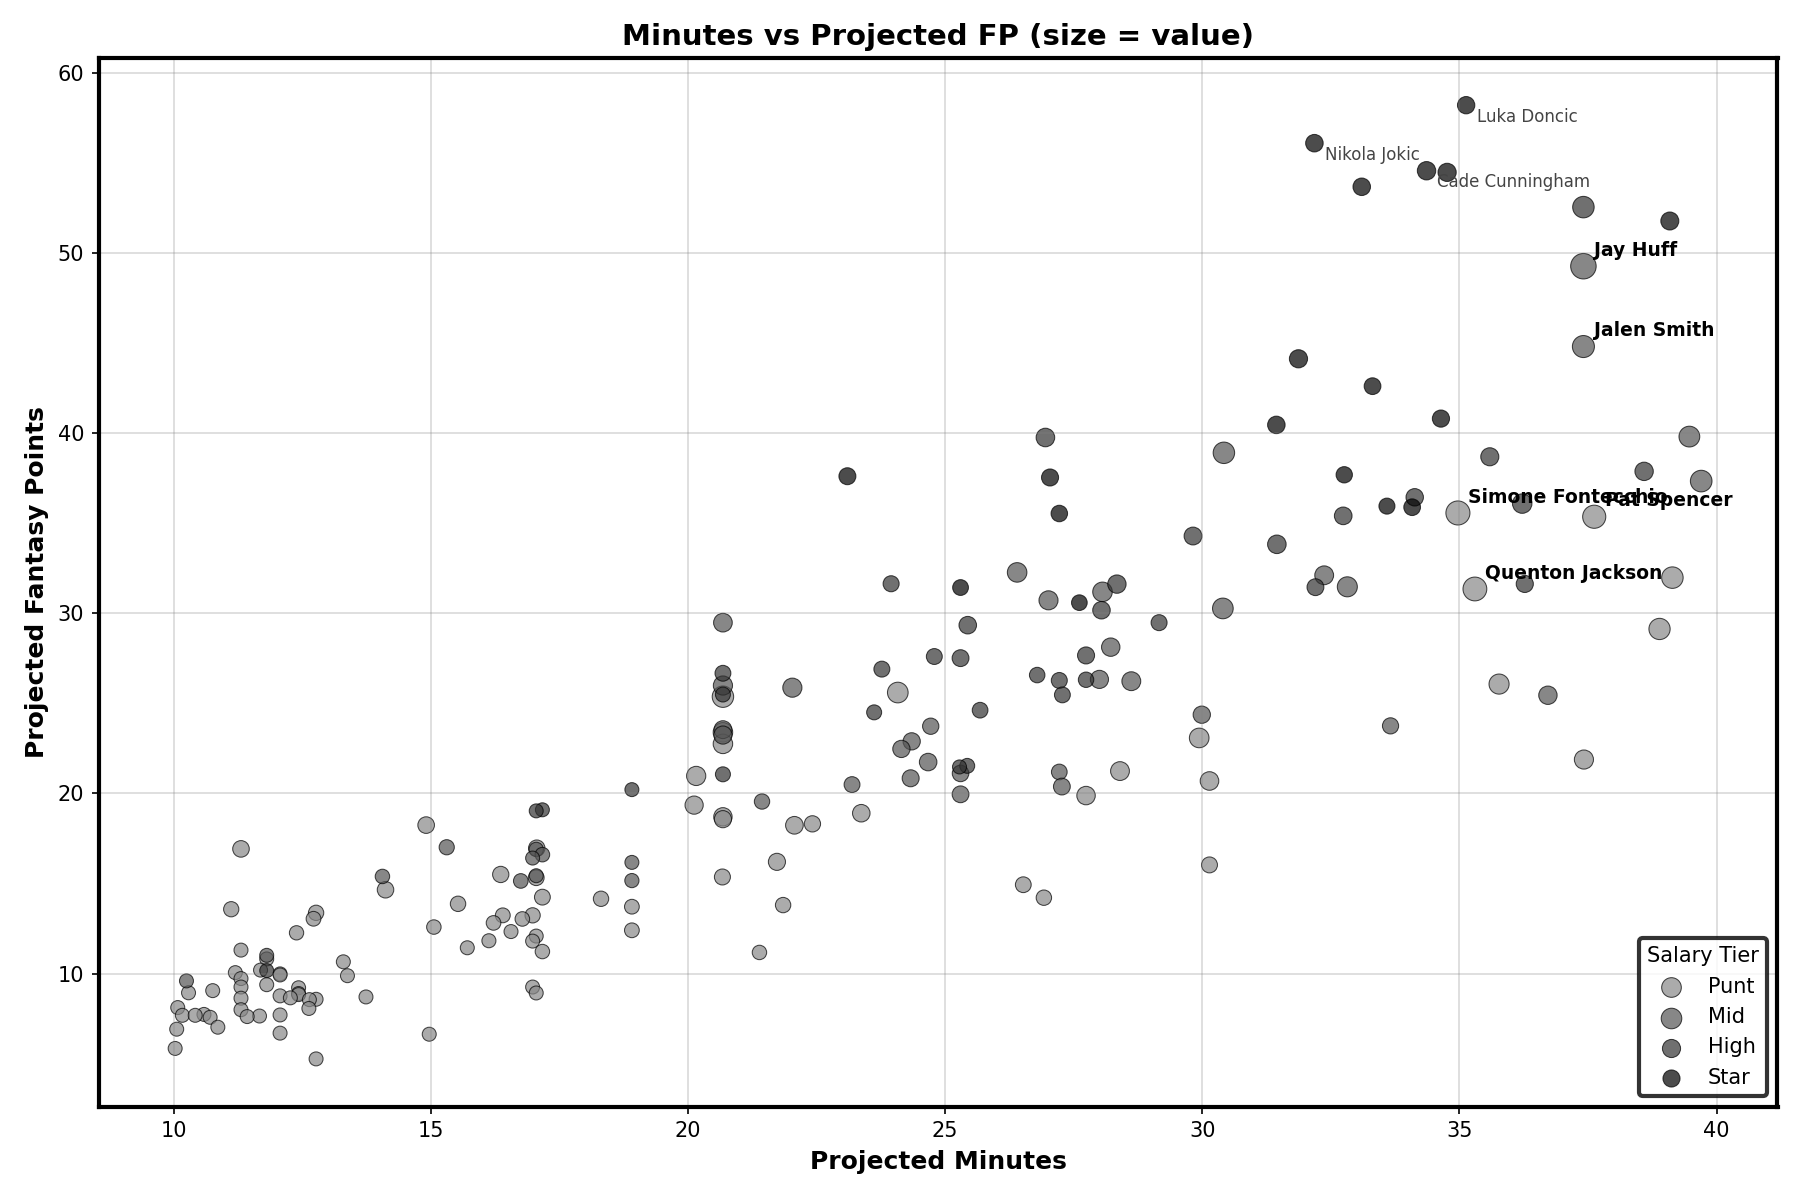
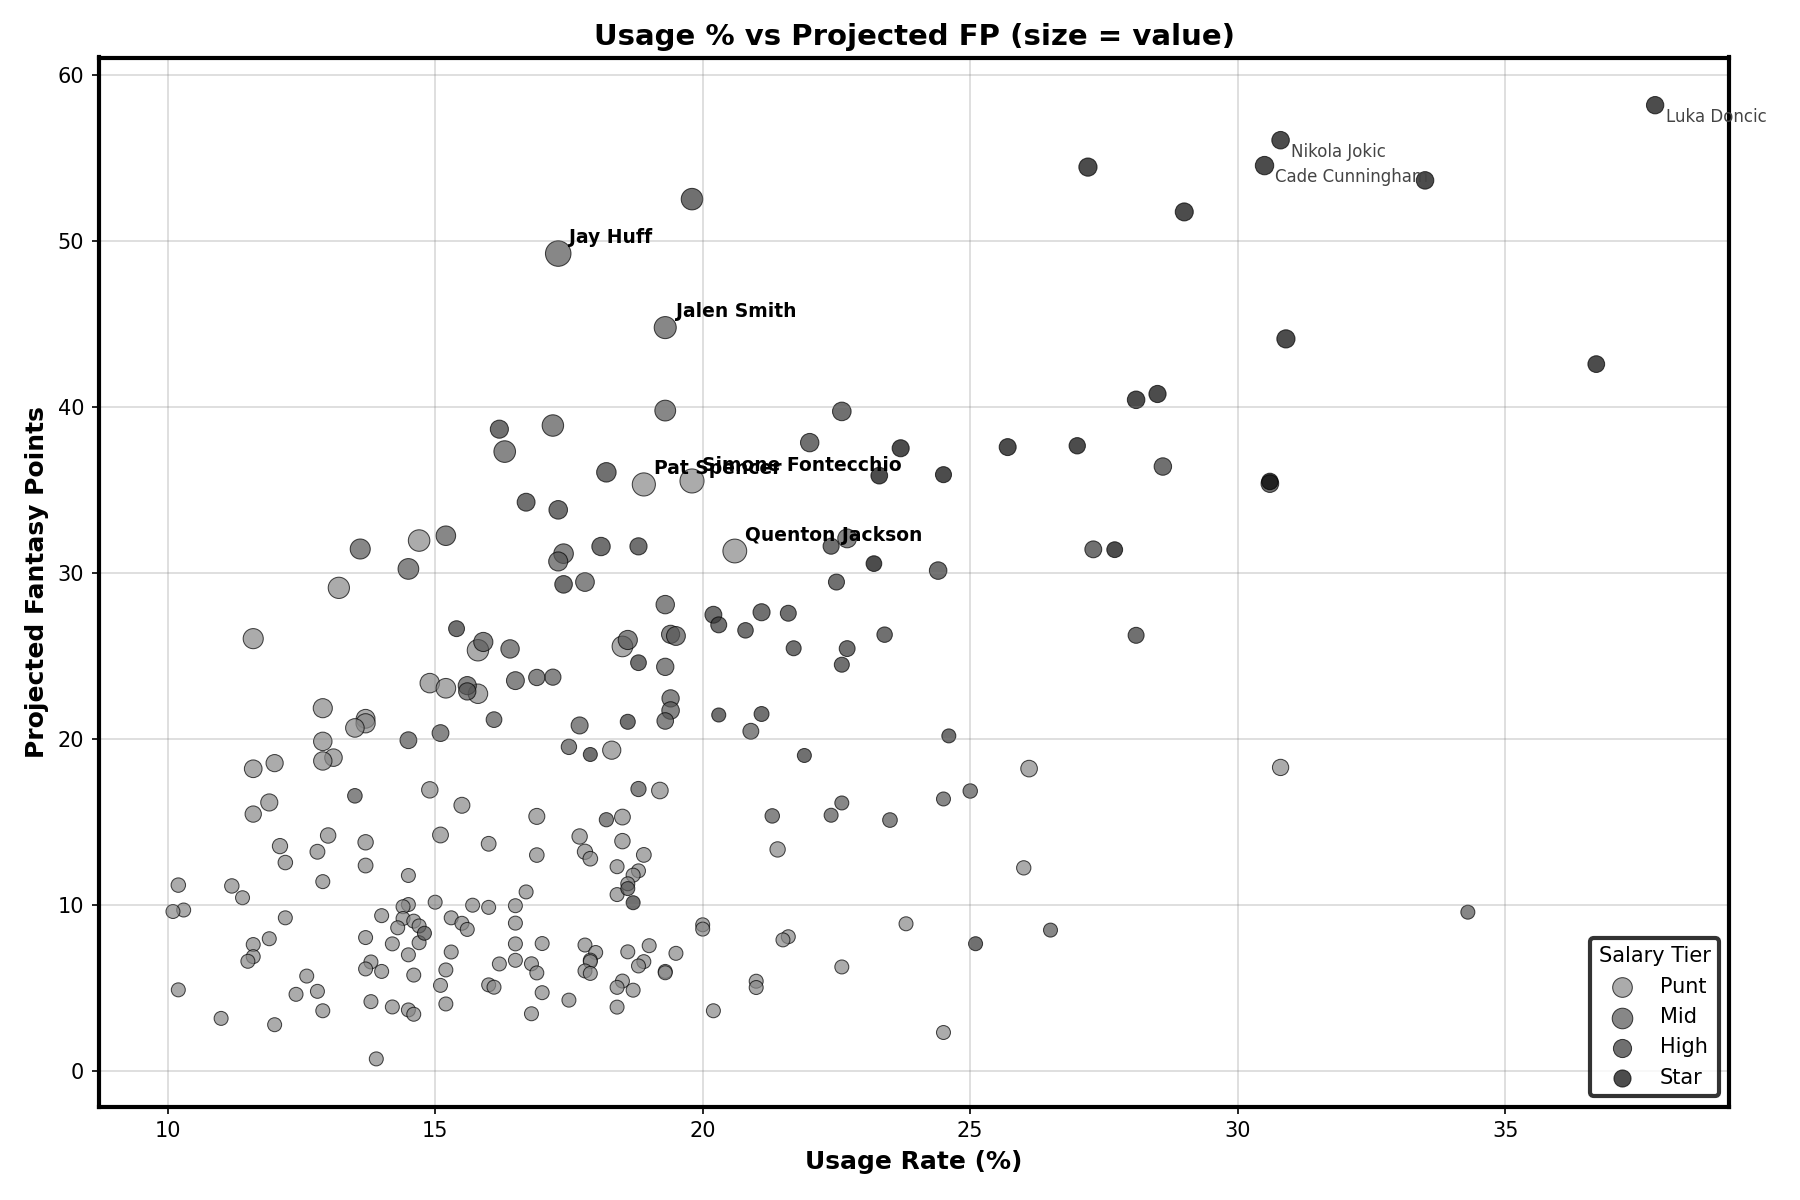
Update player value chart to show usage rate instead of minutes
Modify analysis/player_value.py to replace 'projected_min' with 'usg_pct' for chart generation and update chart titles. Also, update templates/trends.html to reflect the change in the chart's x-axis from minutes to usage.

Replit-Commit-Author: Agent
Replit-Commit-Session-Id: 77c6f695-5fdd-489f-8cef-530d7e46efea
Replit-Commit-Checkpoint-Type: full_checkpoint
Replit-Commit-Event-Id: 87c16a98-b3f6-49f0-a827-0818a04bd59c
Replit-Commit-Screenshot-Url: https://storage.googleapis.com/screenshot-production-us-central1/041ea045-1712-4eb6-a52b-4e58dc819458/77c6f695-5fdd-489f-8cef-530d7e46efea/b9KJBm0
Replit-Helium-Checkpoint-Created: true

diff --git a/templates/trends.html b/templates/trends.html
@@ -17,10 +17,10 @@
     </div>
     
     <div class="trends-section">
-        <h2>Minutes to Fantasy Points</h2>
-        <p class="chart-description">Projected minutes vs fantasy points. Bigger bubbles = better value (FP per $1K). Top-right = volume plays.</p>
+        <h2>Usage to Fantasy Points</h2>
+        <p class="chart-description">Usage rate vs fantasy points. Bigger bubbles = better value (FP per $1K). Top-right = high-usage stars.</p>
         <div class="chart-container">
-            <img src="/static/images/value_chart.png?v={{ cache_bust }}" alt="Minutes to Fantasy Points" class="trend-chart">
+            <img src="/static/images/value_chart.png?v={{ cache_bust }}" alt="Usage to Fantasy Points" class="trend-chart">
         </div>
     </div>
     

diff --git a/analysis/player_value.py b/analysis/player_value.py
@@ -146,11 +146,11 @@ def apply_chart_style(ax, title, xlabel, ylabel):
     ax.grid(True, alpha=0.3, color='gray')
 
 def generate_value_chart(players_df, output_path='static/images/value_chart.png'):
-    """Generate minutes vs projected FP scatter plot with value-based sizing."""
+    """Generate usage vs projected FP scatter plot with value-based sizing."""
     Path(output_path).parent.mkdir(parents=True, exist_ok=True)
     
     df = players_df.copy()
-    df = df[df['projected_min'].notna() & df['proj_fp'].notna() & (df['projected_min'] > 10)]
+    df = df[df['usg_pct'].notna() & df['proj_fp'].notna() & (df['usg_pct'] > 10)]
     
     fig, ax = plt.subplots(figsize=(12, 8))
     fig.patch.set_facecolor('white')
@@ -163,14 +163,14 @@ def generate_value_chart(players_df, output_path='static/images/value_chart.png'
         if len(tier_df) == 0:
             continue
         sizes = tier_df['value'].clip(3, 10) * 15
-        ax.scatter(tier_df['projected_min'], tier_df['proj_fp'], 
+        ax.scatter(tier_df['usg_pct'], tier_df['proj_fp'], 
                   c=colors[tier], label=tier, alpha=0.7, s=sizes, 
                   edgecolors='black', linewidths=0.5)
     
     top_value = df.nlargest(5, 'value')
     for _, player in top_value.iterrows():
         ax.annotate(player['player_name'], 
-                   (player['projected_min'], player['proj_fp']),
+                   (player['usg_pct'], player['proj_fp']),
                    xytext=(5, 5), textcoords='offset points',
                    fontsize=9, fontweight='bold', color='black')
     
@@ -178,11 +178,11 @@ def generate_value_chart(players_df, output_path='static/images/value_chart.png'
     for _, player in top_fp.iterrows():
         if player['player_name'] not in top_value['player_name'].values:
             ax.annotate(player['player_name'], 
-                       (player['projected_min'], player['proj_fp']),
+                       (player['usg_pct'], player['proj_fp']),
                        xytext=(5, -8), textcoords='offset points',
                        fontsize=8, color='#444')
     
-    apply_chart_style(ax, 'Minutes vs Projected FP (size = value)', 'Projected Minutes', 'Projected Fantasy Points')
+    apply_chart_style(ax, 'Usage % vs Projected FP (size = value)', 'Usage Rate (%)', 'Projected Fantasy Points')
     legend = ax.legend(title='Salary Tier', frameon=True, edgecolor='black', loc='lower right')
     legend.get_frame().set_linewidth(2)
     
